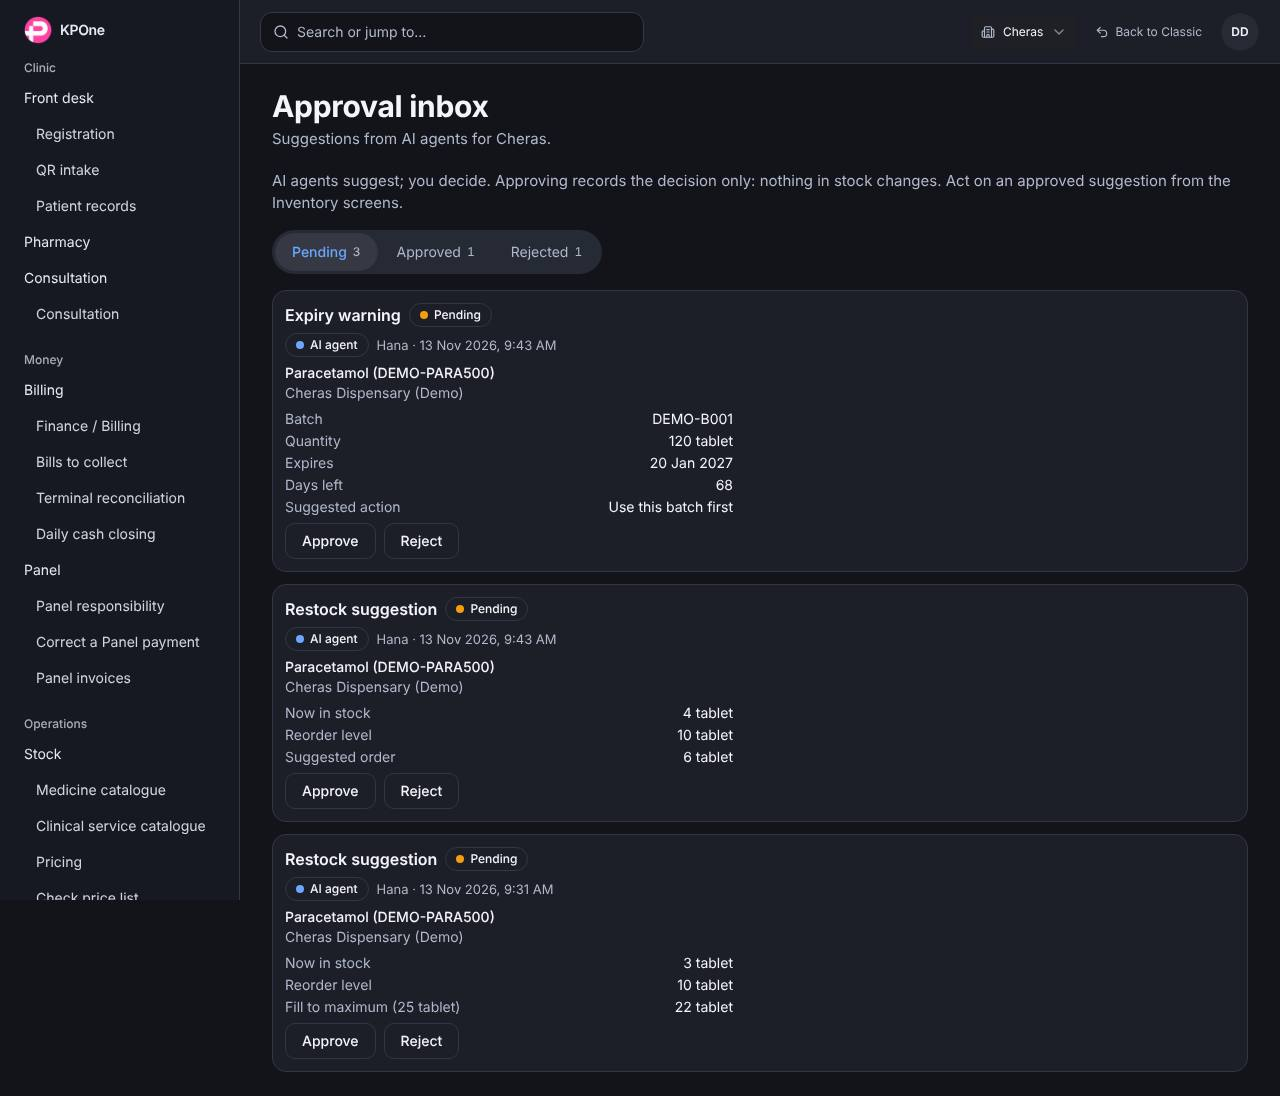
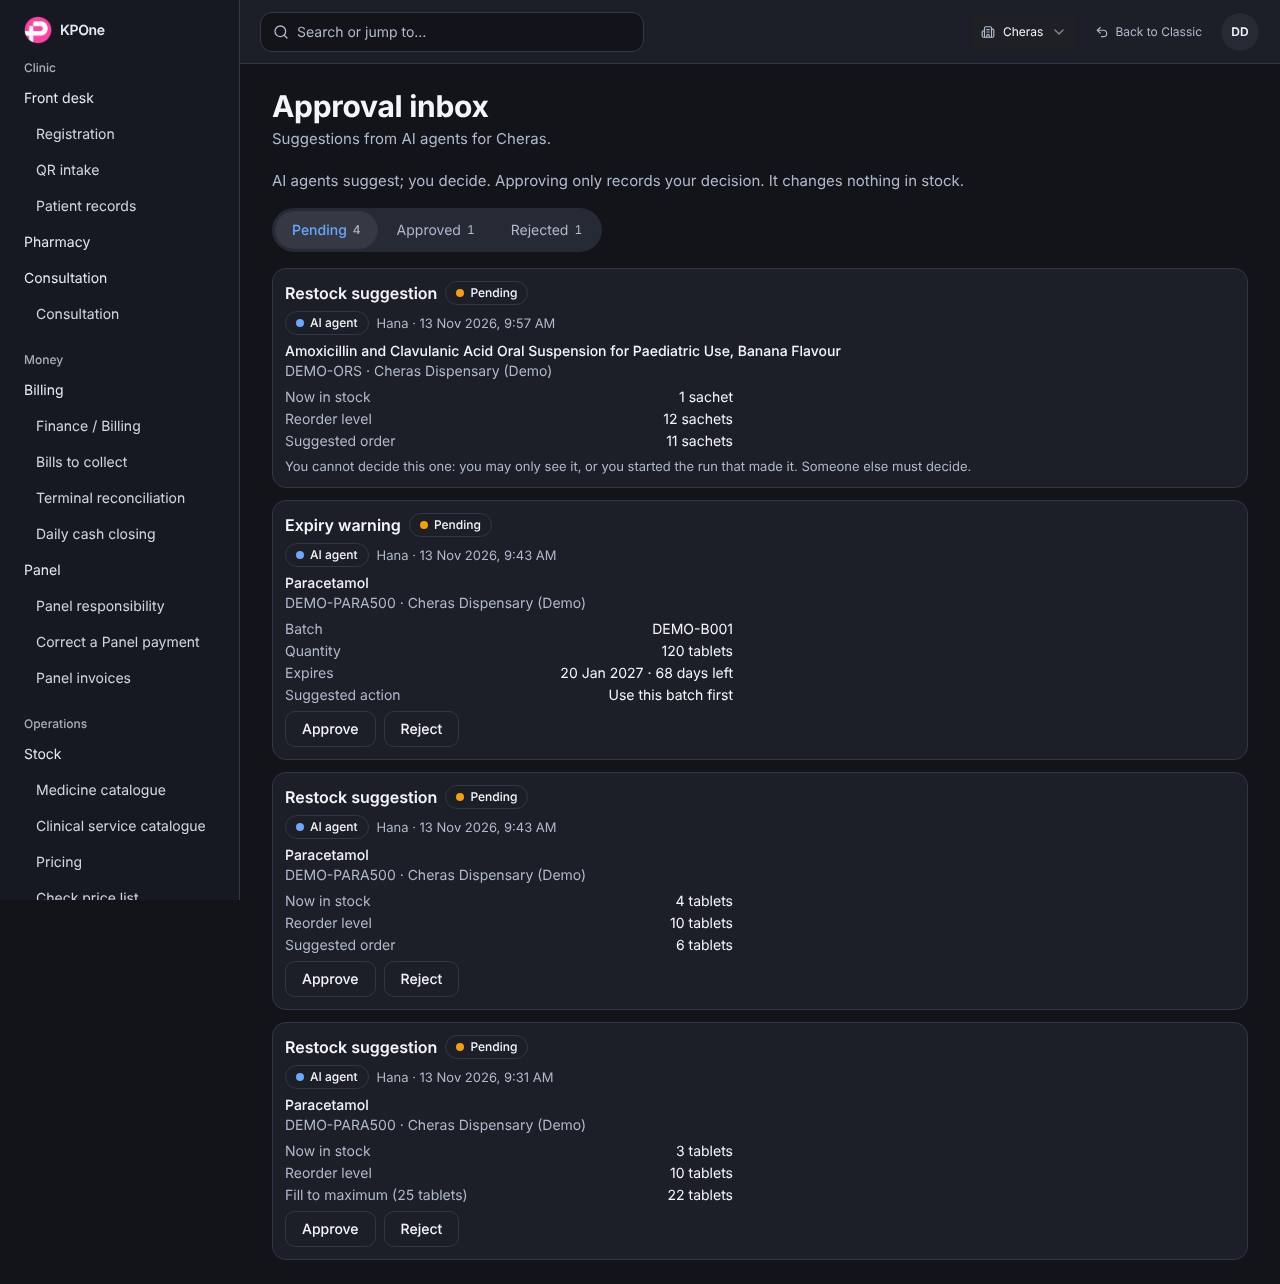
AG-15 evidence: V2 inbox shots round 2

diff --git a/docs/evidence/ag-15-v2-inbox/README.md b/docs/evidence/ag-15-v2-inbox/README.md
@@ -1,3 +1,5 @@
 # AG-15 evidence: V2 approval inbox
 
 Evidence only, never merged. V2 inbox (branch feature/ag-15-v2-inbox) in the real V2 shell with synthetic demo data: 3 pending (expiry, two restock, one with a maximum), 1 approved (transfer), 1 rejected (slow-moving, with a reason). Widths 320, 390, 1024, 1280, 1440, light and dark; approved and rejected tabs at 390 and 1440; reject dialog with the empty-reason error and approve dialog at 390 and 1440.
+
+Round 2 (after the design review): plain item names with the code on a muted line, plural units, one Expires row, a shorter notice, a card the viewer cannot decide (they started the run), a very long item name, and the refused-decision dialog (someone else rejected the card first). Shots now include inbox-refused-dialog-390-light and inbox-refused-dialog-1440-dark.
